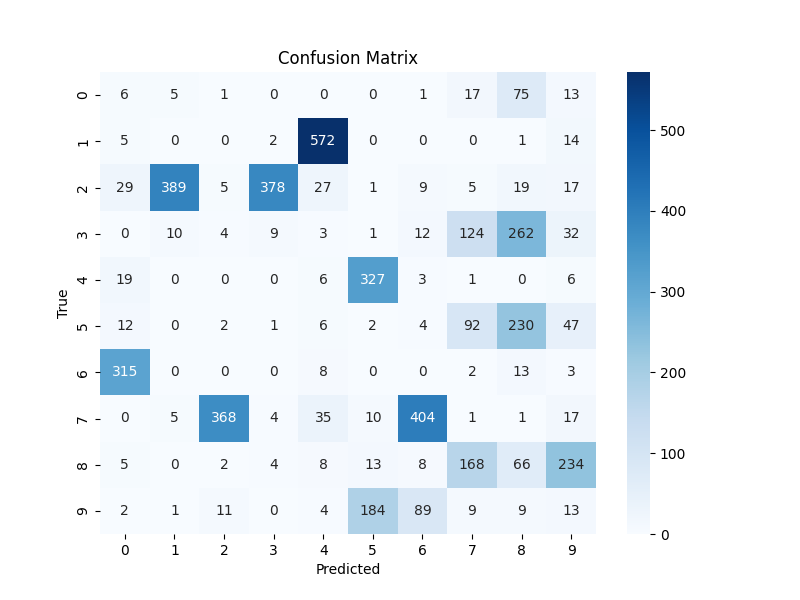
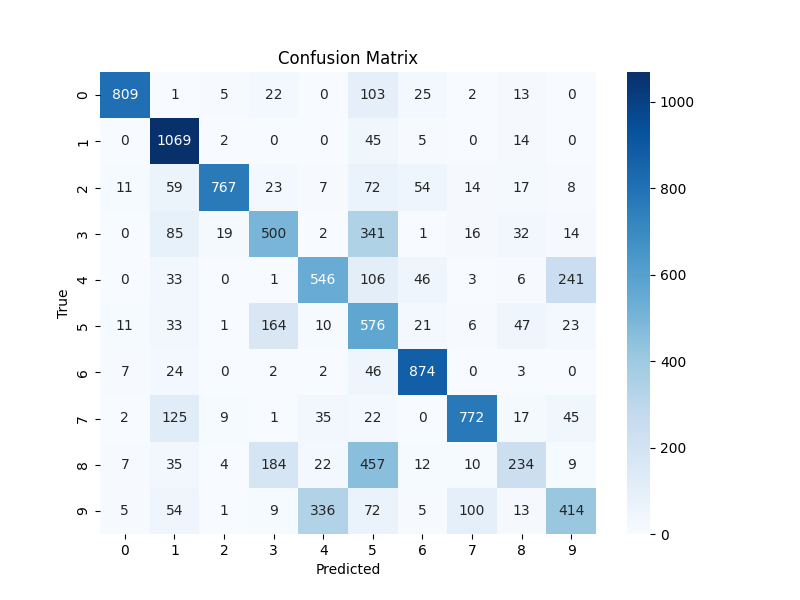
ai

diff --git a/Sem4/AI/List4/Exc1/main.py b/Sem4/AI/List4/Exc1/main.py
@@ -31,21 +31,24 @@ def plot_confusion_matrix(cm, file):
     plt.savefig(file)
 
 def run_experiment(k):
-    print(f"Running KMeans with {k} clusters...")
-    kmeans = KMeans(k=k, random_state=279679)
+    print(f"Running KMeans with {ks[k]} clusters...")
+    kmeans = KMeans(k=ks[k], random_state=279679)
     kmeans.fit(X_train)
 
-    predicted_labels = kmeans.predict(X_test)
+    predicted_labels = [centroid_to_digit[k][label] for label in kmeans.predict(X_test)]
     cm = confusion_matrix(y_test, predicted_labels, labels=range(10))
+    plot_confusion_matrix(cm, file=f"plots/k{ks[k]}/cm.png")
+    plot_centroids(kmeans.centroids, file=f"plots/k{ks[k]}/centroids.png")
 
-    cluster_to_digit = np.argmax(cm, axis=0)
-    mapped_preds = np.array([cluster_to_digit[cl] for cl in predicted_labels])
 
-    cm = confusion_matrix(y_test, mapped_preds, labels=range(10))
+ks = [10, 15, 20, 30]
 
-    plot_confusion_matrix(cm, file=f"plots/k{k}/cm.png")
-    plot_centroids(kmeans.centroids, file=f"plots/k{k}/centroids.png")
-
+centroid_to_digit = [
+    [6, 0, 7, 2, 1, 4, 1, 3, 0, 8],
+    [6, 2, 7, 2, 1, 4, 7, 3, 0, 8, 5, 4, 1, 0, 9],
+    [6, 2, 7, 2, 1, 4, 7, 3, 5, 8, 5, 6, 1, 6, 4, 5, 0, 0, 9, 3],
+    [6, 1, 7, 2, 1, 4, 7, 3, 5, 9, 5, 9, 1, 4, 1, 6, 4, 8, 0, 0, 9, 3, 2, 3, 6, 0, 6, 4, 8, 0, 8, 2]
+]
 
 (X_train, y_train), (X_test, y_test) = mnist.load_data()
 
@@ -55,6 +58,6 @@ X_test = downscale_images(X_test)
 X_train = X_train / 255.0
 X_test = X_test / 255.0
 
-for k in [10, 15, 20, 30]:
+for k in range(4):
     run_experiment(k)
 
